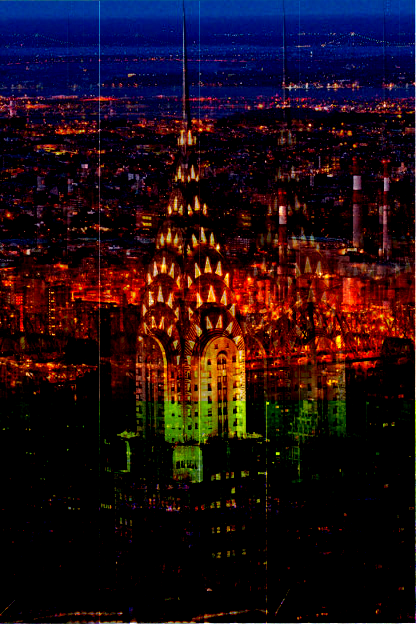
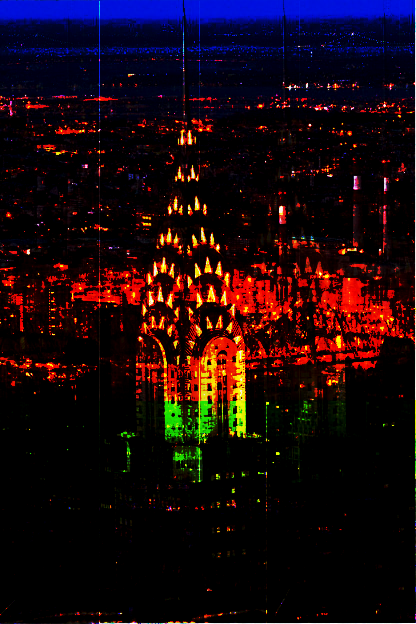
Fixed positional argument mismatch in the disotron effect

diff --git a/core/effects.py b/core/effects.py
@@ -15,6 +15,7 @@ class Delay(Effect):
         dry = signal
         wet = apply_delay(signal, self.delay_samples, self.feedback)
         return dry * (1 - self.mix) + wet * self.mix
+
 class Distortion(Effect):
     def __init__(self, gain, blend, mix = 1.0):
         self.gain = gain
@@ -22,7 +23,9 @@ class Distortion(Effect):
         self.mix = mix
 
     def process(self, signal):
-        return apply_distortion(signal, self.gain, self.blend)
+        dry = signal
+        wet = apply_distortion(signal, self.gain, self.blend)
+        return dry * (1 - self.mix) + wet * self.mix
 
 class Echo(Effect):
     def __init__(self, delay_samples, decay, num_echoes, mix = 1.0):
@@ -60,7 +63,7 @@ def apply_echo(signal, delay_samples, decay, num_echoes):
     return signal
 
 def apply_distortion(signal, gain, blend):
-    driven = signal * gain
+    driven = signal*gain
     hard = np.clip(driven, -1.0 , 1.0)
     soft = np.tanh(driven)
-    return hard * (1 -blend) + soft * blend
+    return hard * (1 - blend) + soft * blend

diff --git a/test_pipeline.py b/test_pipeline.py
@@ -3,11 +3,12 @@ from core import pure, corrupted
 from core.effects import Delay, Echo, Distortion
 from core.pipeline import glitch_image
 
-img = Image.open("/home/ezra/Programming/Corrupted_Visions/test images/chrysler.jpeg")
+img = Image.open("test images/chrysler.jpeg")
 
 
 #chain = [Delay(300, 0.5, 1), Echo(500000, 0.75, 3, 1)]
-chain = [Echo(500000, 0.75, 3, 1), Delay(300, 0.5, 1)]
+#chain = [Echo(500000, 0.75, 3, 1), Delay(300, 0.5, 1)]
+chain = [Echo(500000, 0.75, 3 , 1), Delay(300, 0.5, 1), Distortion(10, 0.5, 0.7)]
 
 image, ok, message = glitch_image(img, chain, pure)
 
